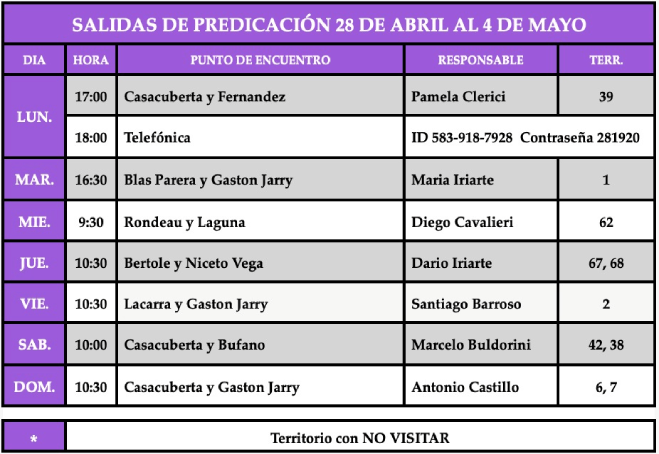
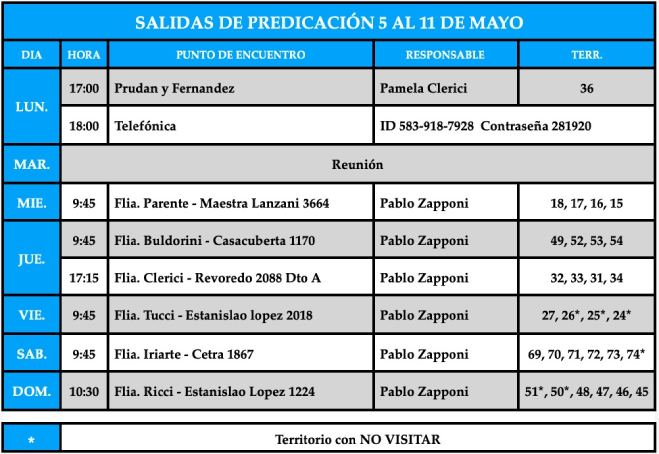
actualizo salida, limpieza y programa

diff --git a/pages/programaSemanal/programaSemanal.html b/pages/programaSemanal/programaSemanal.html
@@ -39,7 +39,7 @@
     <main>
         <section class="reuSemanal">
             <h2> Programa para la reunión entre semana</h2>
-            <img src="./asignacionesAbril.png" alt="">
+            <img src="./asignacionesMayo.png" alt="">
         </section>
     </main>
     <footer>
